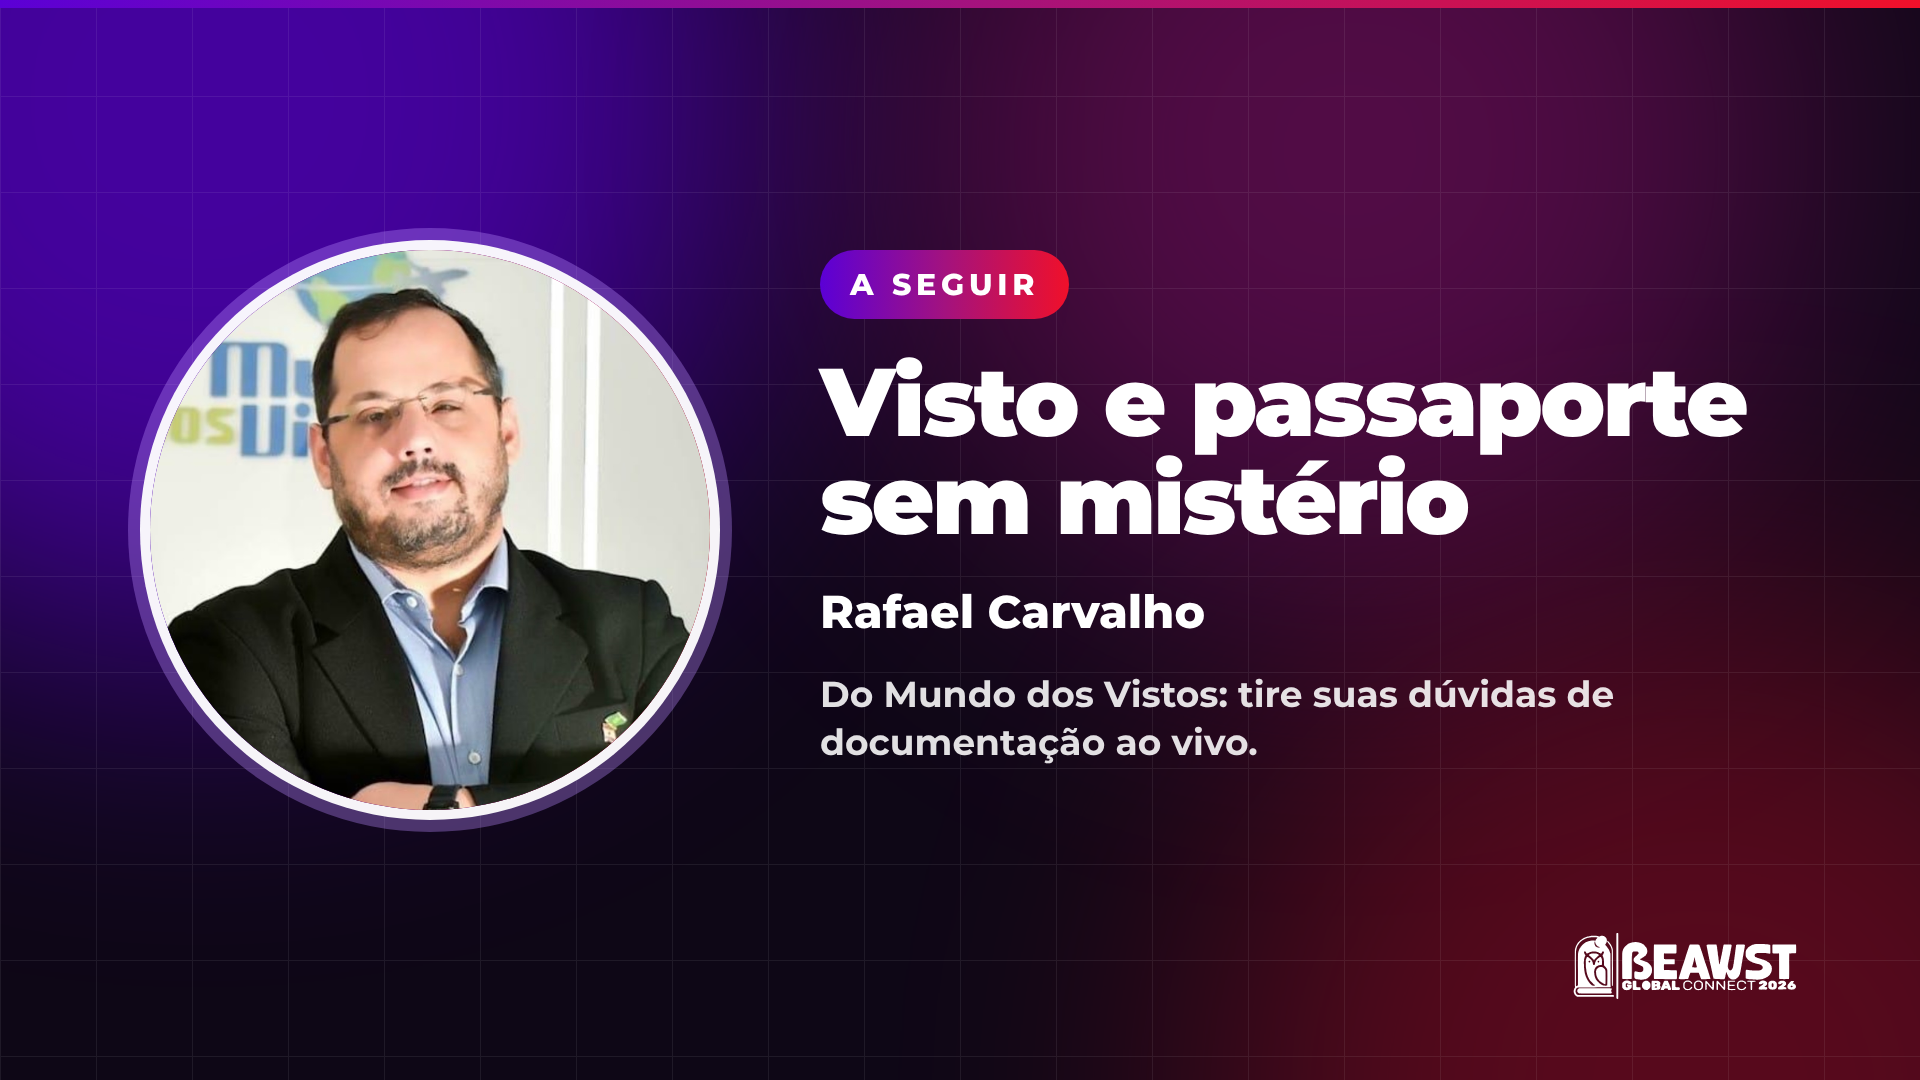
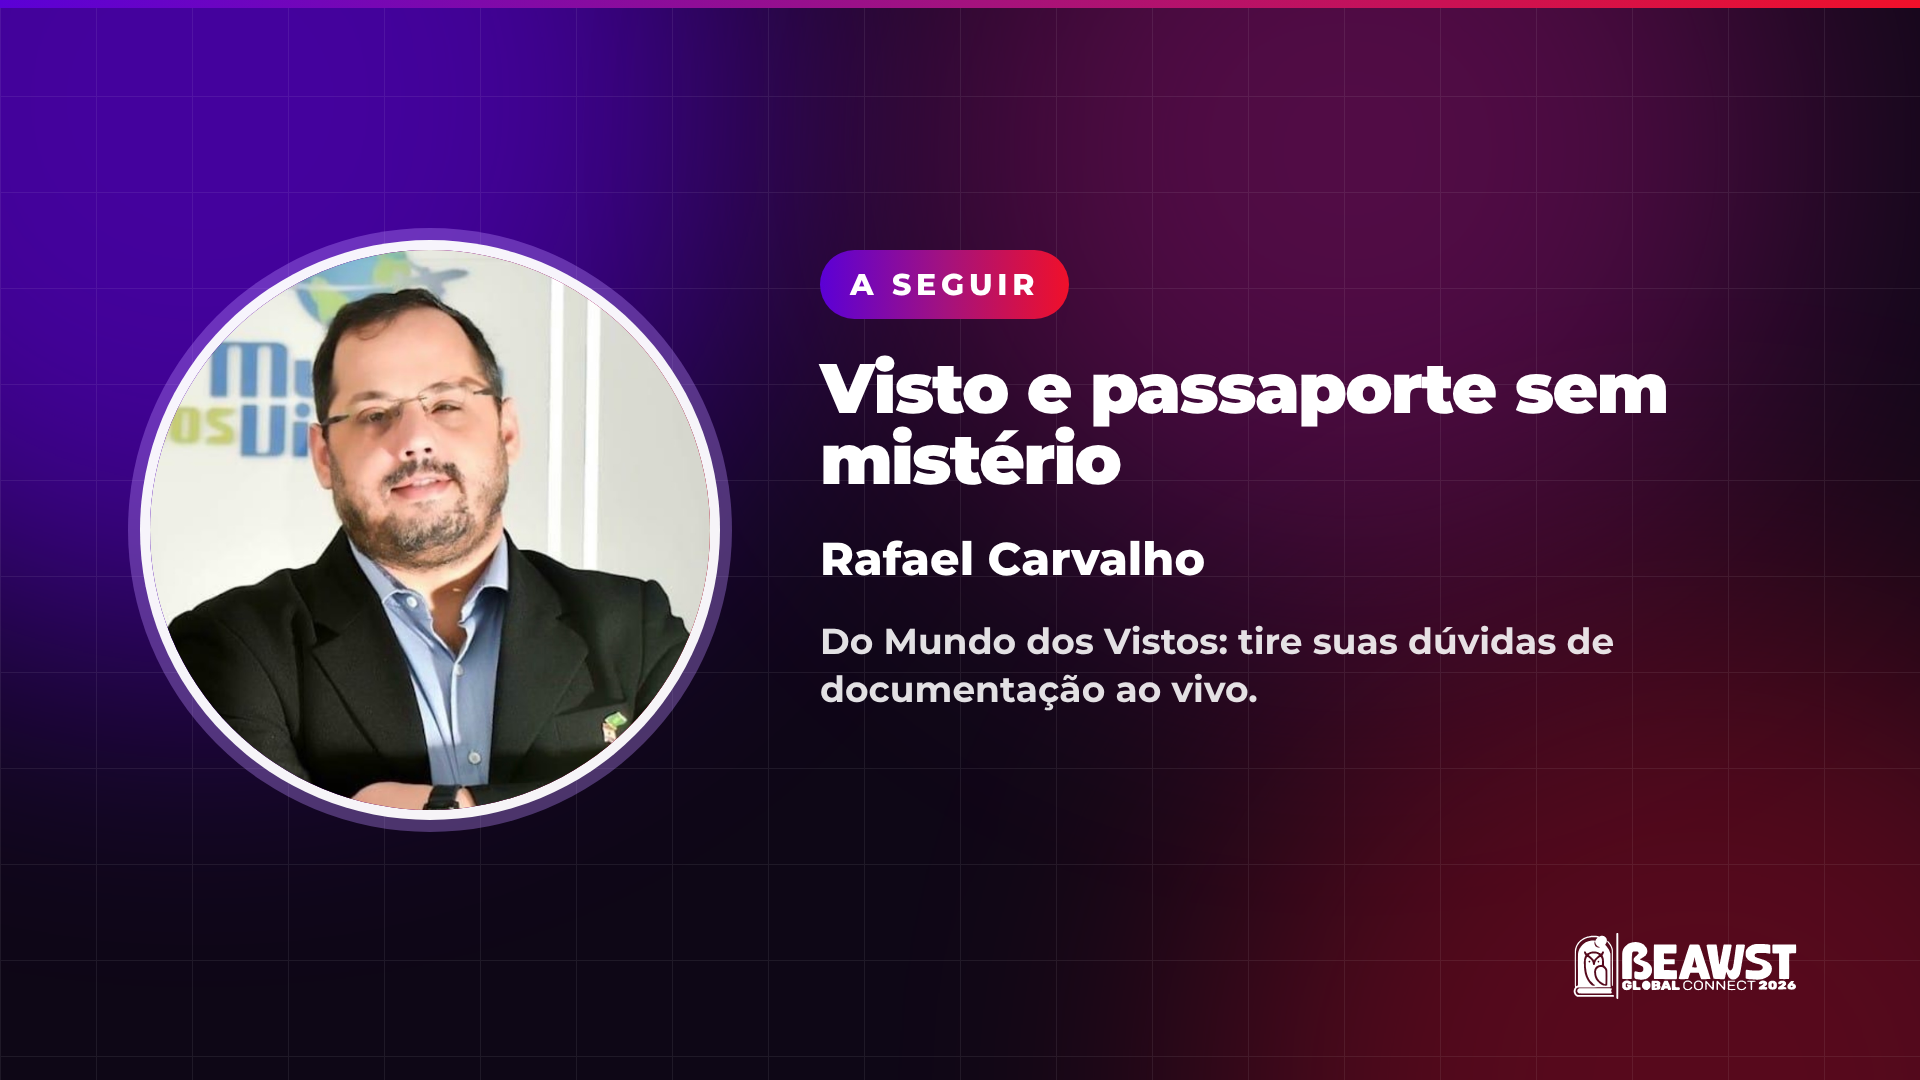
Transmissão: tarjas Samanta e Camila, A seguir da Camila, fundo limpo e telas de sorteio
Claude-Session: https://claude.ai/code/session_01KyHVk97BxwCKQz2piQjfor

Changed region(s): [[0.4062, 0.3361, 0.9062, 0.7028]]

diff --git a/beawst-transmissao/telas.html b/beawst-transmissao/telas.html
@@ -30,6 +30,10 @@ const PALESTRANTES = {
     desc: 'Representante da Gateway School of English, escola de inglês em Malta.' },
   rafael: { nome: 'Rafael Carvalho', tema: 'Visto e passaporte sem mistério', foto: 'assets/palestrantes/rafael.jpg', fotoPos: '50% 18%', fotoZoom: 1.25, fotoOrigem: '48% 22%',
     desc: 'Do Mundo dos Vistos: tire suas dúvidas de documentação ao vivo.' },
+  samanta: { nome: 'Samanta Lopes', tema: 'Apresentadora oficial', foto: 'assets/palestrantes/samanta.jpg', fotoPos: '50% 22%', fotoZoom: 1.45, fotoOrigem: '50% 30%',
+    desc: 'Educadora e empreendedora, com mais de 25 anos de mercado.' },
+  camila: { nome: 'Camila Fidélis', tema: 'Como o intercâmbio acelera a sua carreira global', foto: 'assets/palestrantes/camila.jpg', fotoPos: '50% 22%', fotoZoom: 1.6, fotoOrigem: '42% 24%',
+    desc: 'Fundadora da BEAWST e executiva de RH com mais de 20 anos em grandes multinacionais.' },
 };
 window.PALESTRANTES = PALESTRANTES;
 HOLES.pm = HOLES['08'];   // máscara PPT + câmera personalizada usa os mesmos recortes
@@ -58,6 +62,7 @@ body{font-family:M,sans-serif;color:#fff;-webkit-font-smoothing:antialiased;posi
   background:linear-gradient(var(--escuro),var(--escuro)) padding-box,var(--grad) border-box;box-shadow:0 20px 60px rgba(0,0,0,.45)}
 .vert{position:absolute;writing-mode:vertical-rl;transform:rotate(180deg);font-weight:800;font-size:22px;letter-spacing:.24em;color:rgba(255,255,255,.75);text-align:center}
 .tela{display:none}
+.halo{border-radius:50%;background:radial-gradient(circle,rgba(255,107,181,.55) 0%,rgba(91,0,214,.35) 45%,transparent 70%);filter:blur(30px)}
 .foto{position:relative;border-radius:50%;overflow:hidden;background:var(--grad);display:grid;place-items:center;font-weight:900;color:#fff;box-shadow:0 0 0 10px rgba(255,255,255,.95),0 0 0 22px rgba(185,140,255,.35)}
 .foto img{position:absolute;inset:0;width:100%;height:100%;object-fit:cover}
 .flag{display:inline-block;border-radius:10px;overflow:hidden;box-shadow:0 0 0 4px #fff;vertical-align:middle}
@@ -160,6 +165,40 @@ body.transp .bg{display:none}
   <div class="abs" style="right:90px;top:220px;font-weight:700;font-size:24px;letter-spacing:.14em;color:rgba(255,255,255,.75);text-align:right">FEIRA DE INTERCÂMBIO · 07/11</div>
 </div>
 
+<!-- 14 | Fundo limpo atrás dos palestrantes (um só para todos) -->
+<div class="tela" id="t14">
+  <img class="abs" src="assets/logo-feira-branco.svg" style="left:60px;bottom:60px;height:56px;opacity:.85">
+</div>
+
+<!-- 15 / 16 | Sorteio -->
+<div class="tela" id="t15">
+  <div class="abs" style="left:120px;top:150px;width:780px">
+    <span class="pill" style="background:var(--grad)">sorteio ao vivo</span>
+    <div class="huge" style="font-size:118px;margin-top:34px">Kit viagem</div>
+    <div class="huge gradL" style="font-size:118px">+ caderneta</div>
+    <div style="font-weight:700;font-size:40px;line-height:1.3;margin-top:34px;color:rgba(255,255,255,.9)">Travesseiro de pescoço, máscara de dormir e caderneta BEAWST.</div>
+    <div style="margin-top:46px;display:inline-flex;align-items:center;gap:18px;background:#fff;color:#0B0B0F;border-radius:999px;padding:20px 36px;font-weight:900;font-size:38px">
+      <span style="width:20px;height:20px;border-radius:50%;background:var(--vermelho);box-shadow:0 0 0 7px rgba(240,16,42,.22)"></span>sorteado de hora em hora</div>
+  </div>
+  <div class="abs halo" style="left:930px;top:120px;width:900px;height:840px"></div>
+  <img class="abs" src="assets/sorteio/kit-viagem.png" style="left:920px;top:470px;width:700px;filter:drop-shadow(0 30px 40px rgba(0,0,0,.45))">
+  <img class="abs" src="assets/sorteio/caderneta.png" style="left:1360px;top:200px;width:430px;transform:rotate(8deg);filter:drop-shadow(0 30px 40px rgba(0,0,0,.45))">
+  <img class="abs" src="assets/logo-feira-branco.svg" style="left:120px;bottom:70px;height:60px">
+</div>
+<div class="tela" id="t16">
+  <div class="abs" style="left:120px;top:150px;width:760px">
+    <span class="pill" style="background:var(--grad)">grande sorteio</span>
+    <div class="huge" style="font-size:118px;margin-top:34px">Kit viagem</div>
+    <div class="huge gradL" style="font-size:118px">+ mala</div>
+    <div style="font-weight:700;font-size:40px;line-height:1.3;margin-top:34px;color:rgba(255,255,255,.9)">Mala de rodinhas, travesseiro, máscara e caderneta BEAWST.</div>
+    <div style="margin-top:46px;display:inline-flex;align-items:center;gap:18px;background:#fff;color:#0B0B0F;border-radius:999px;padding:20px 36px;font-weight:900;font-size:38px">
+      <span style="width:20px;height:20px;border-radius:50%;background:var(--vermelho);box-shadow:0 0 0 7px rgba(240,16,42,.22)"></span>pra quem ficou até o fim</div>
+  </div>
+  <div class="abs halo" style="left:900px;top:90px;width:960px;height:900px"></div>
+  <img class="abs" src="assets/sorteio/kit-mala.png" style="left:900px;top:150px;width:940px;filter:drop-shadow(0 30px 40px rgba(0,0,0,.45))">
+  <img class="abs" src="assets/logo-feira-branco.svg" style="left:120px;bottom:70px;height:60px">
+</div>
+
 <!-- ps | A seguir (tela cheia) -->
 <div class="tela" id="tps">
   <div class="abs" style="left:150px;top:250px"><div class="foto" id="psFoto" style="width:560px;height:560px;font-size:240px"></div></div>
@@ -212,6 +251,7 @@ if (P) {
     const f = document.getElementById(k + 'Flag'); if (f) { if (P.bandeira) f.innerHTML = BANDEIRAS[P.bandeira]; else f.style.display = 'none'; }
     const ft = document.getElementById(k + 'Foto'); if (ft) foto(ft); });
 }
+if (P && P.tema.length > 30) { const e = document.getElementById('psTema'); if (e) e.style.fontSize = '70px'; }
 if (t === 'gc') { document.body.classList.add('transp'); document.documentElement.style.background = 'transparent'; document.body.style.background = 'transparent'; }
 // moldura em gradiente por fora de cada recorte (o recorte em si fica transparente no PNG)
 for (const [x, y, w, h] of (HOLES[t] || [])) {
@@ -219,6 +259,10 @@ for (const [x, y, w, h] of (HOLES[t] || [])) {
   f.className = 'frame';
   Object.assign(f.style, { left: x - 6 + 'px', top: y - 6 + 'px', width: w + 12 + 'px', height: h + 12 + 'px' });
   document.getElementById('frames').appendChild(f);
+}
+if (t === '14') {   // fundo limpo: sem grade nem barra, brilhos mais suaves
+  document.querySelector('.grid').style.display = 'none';
+  document.querySelectorAll('.glow').forEach(g => g.style.opacity = (parseFloat(getComputedStyle(g).opacity) * .6).toFixed(2));
 }
 if (t === '10') {   // fundo virtual: centro mais limpo e escuro, onde fica a pessoa
   document.querySelector('.grid').style.opacity = '.04';

diff --git a/beawst-transmissao/README.md b/beawst-transmissao/README.md
@@ -15,6 +15,9 @@ Seguem o "Manual de Especificações de Arte e Vídeo — Eventos Remotos": 1920
 | 09_VINHETA.mp4 | vinheta de abertura/virada de bloco (7s) | MP4 H.264 · 30fps · Rec.709 · 12 Mbps · AAC 48 kHz estéreo |
 | 09_VINHETA_B.mp4 | vinheta opção B "Conexões", fundo claro (6s) | mesmo padrão da 09_VINHETA |
 | 10_FUNDO_VIRTUAL_PALESTRANTE.png | fundo virtual da webcam (Zoom/Meet/Teams) | 100% fechada |
+| 14_FUNDO_LIMPO_PALESTRANTES.png | fundo limpo atrás dos palestrantes (um só para todos) | 100% fechada |
+| 15_SORTEIO_KIT_VIAGEM_CADERNETA.png | sorteio de hora em hora | 100% fechada |
+| 16_SORTEIO_KIT_VIAGEM_MALA.png | grande sorteio do fim | 100% fechada |
 | 11_A_SEGUIR_<NOME>.png | anúncio da próxima palestra | 100% fechada |
 | 12_MASCARA_PPT_E_CAMERA_<NOME>.png | slides + câmera com nome e tema | PPT 1344×756 + câmera 400×400 |
 | 13_TARJA_NOME_<NOME>.png | tarja de nome (GC) sobre a câmera | fundo transparente |
